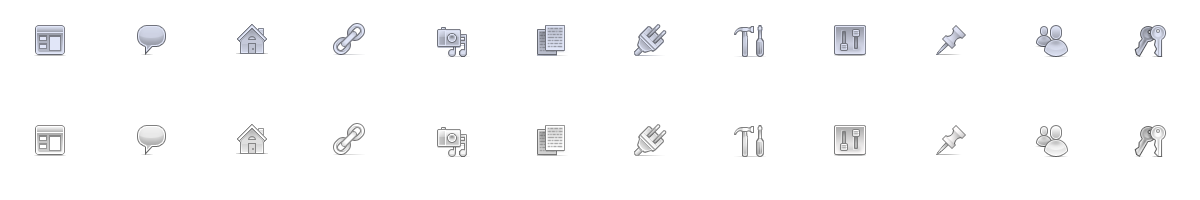
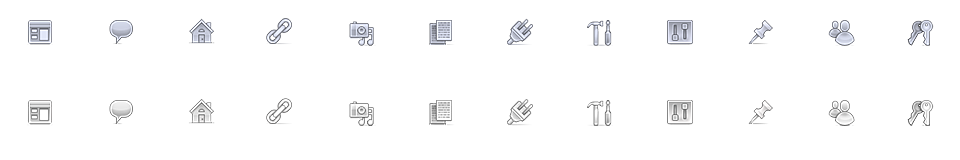
替換後台側邊欄小圖

diff --git a/app/assets/stylesheets/admin/style.scss b/app/assets/stylesheets/admin/style.scss
@@ -25,15 +25,15 @@ h1 a{font:700 15px "Helvetica"}
 
 #side{width:100px;position:relative;left:2px;text-align:center}
 #side li{height:100px}
-#side li a{background-image:image-url("admin/side.png");background-repeat:no-repeat;
+#side li a{background-image:url(../images/side.png);background-repeat:no-repeat;
 	display:block;width:100%;height:40px;color:#7D8089;text-shadow:0 1px 0 #fff;padding-top:60px;}
 #side li a:hover{color:#152529}
-#posts{background-position:-900px bottom}
-#posts:hover{background-position:-900px top}
-#questions{background-position:-100px bottom}
-#questions:hover{background-position:-100px top}
-#boards{background-position:-500px bottom}
-#boards:hover{background-position:-500px top}
+#posts{background-position:-710px -68px}
+#posts:hover{background-position:-710px 12px}
+#questions{background-position:-70px -68px}
+#questions:hover{background-position:-70px 12px}
+#boards{background-position:-388px -68px}
+#boards:hover{background-position:-388px 12px}
 
 .active{background:#fff;border-top:1px solid #C6C5CF;border-left:1px solid #C6C5CF;
 	border-bottom:1px solid #C6C5CF;border-radius:5px 0 0 5px;box-shadow:-1px 1px 1px #ccc;
@@ -62,8 +62,8 @@ h1 a{font:700 15px "Helvetica"}
 .button a:hover{color:#777}
 .button img{position:relative;top:3px;margin-right:10px}
 
-.button input{display:block;width:110px;height:30px;position:absolute;top:0;left:0;background:none;border:0;z-index:2}
-.button input:hover a{color:#777}
+.button input{display:block;width:110px;height:30px;position:absolute;top:0;left:0;background:none;border:0;z-index:2;cursor:pointer}
+.button input:hover a{color:#777!important}
 
 /*-------------------------------------------------------------------標題---*/
 
